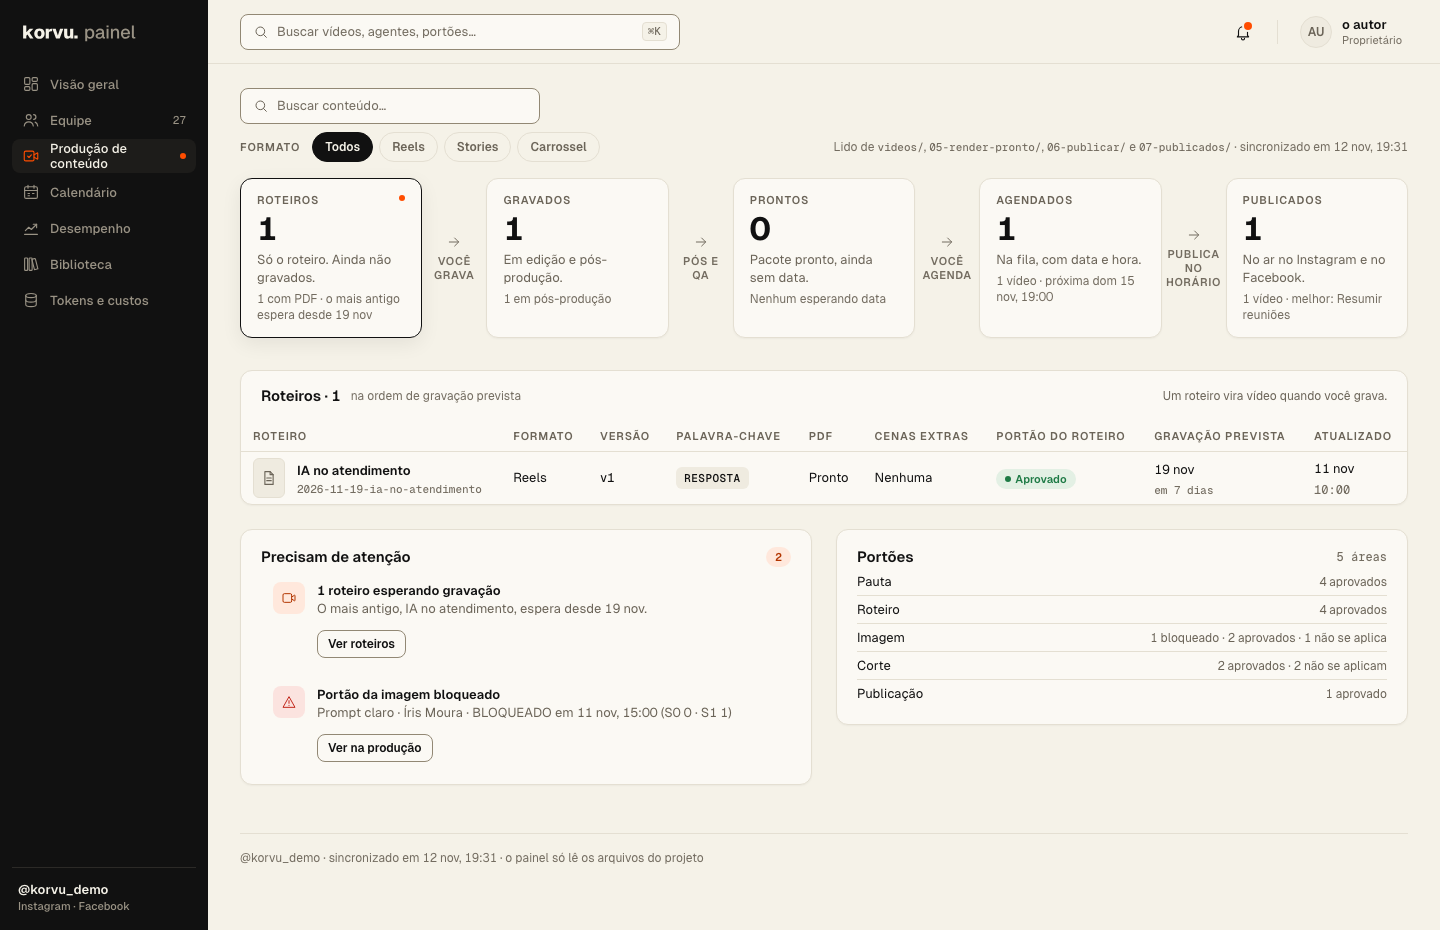
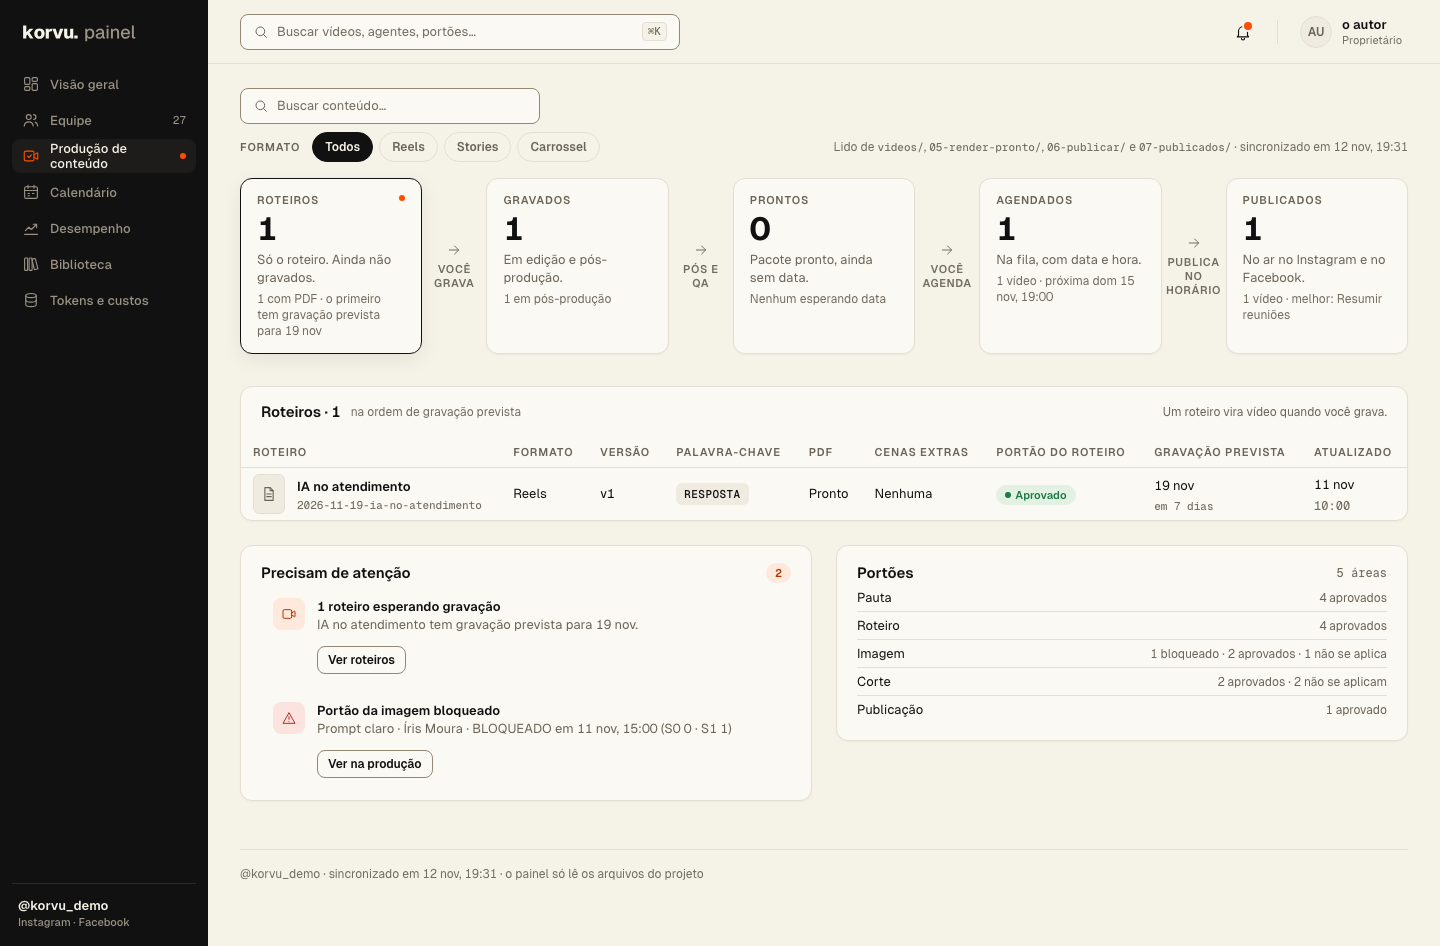
Produção: roteiro com gravação futura não "espera desde"; resíduos de horário
- A data do slug é a gravação PREVISTA: quando ela ainda não chegou, o cartão Roteiros e o aviso
  "Precisam de atenção" dizem "tem gravação prevista para 19 nov"; "espera desde" fica só para data passada.
- Captura producao-1440.png refeita com a configuração do exemplos/README.md.
- Horário de corte real trocado por um inventado no README do painel, no design-system e no handoff.

diff --git a/painel/web/src/app/producao/page.tsx b/painel/web/src/app/producao/page.tsx
@@ -12,7 +12,7 @@ import { BarraPagina, Secao } from "@/components/Pagina";
 import Vazio from "@/components/Vazio";
 import * as db from "@/lib/db";
 import { MAPA_PORTAO } from "@/lib/estados";
-import { data, dataDoSlug, dataHora, diaCurto, hora, PORTOES } from "@/lib/formato";
+import { data, dataDoSlug, dataHora, diaCurto, diaNoFuso, hora, PORTOES } from "@/lib/formato";
 import { agentes } from "@/lib/leituras";
 import { FASES, lerProducao, precisamDeAtencao, type Producao } from "@/lib/producao";
 import { Agendados, Gravados, Prontos, Publicados, Roteiros } from "./_componentes/Tabelas";
@@ -39,7 +39,12 @@ function metaDasFases(p: Producao) {
       n: roteiros.length, d: "Só o roteiro. Ainda não gravados.",
       m: [
         roteiros.length ? `${roteiros.filter((v) => p.roteiroDe(v.slug)?.pdf).length} com PDF` : "",
-        antigo ? `o mais antigo espera desde ${data(`${antigo}T12:00:00Z`)}` : "nenhum esperando",
+        // a data do slug é a gravação PREVISTA: só "espera desde" quando ela já passou
+        antigo
+          ? antigo < diaNoFuso(new Date())
+            ? `o mais antigo espera desde ${data(`${antigo}T12:00:00Z`)}`
+            : `o primeiro tem gravação prevista para ${data(`${antigo}T12:00:00Z`)}`
+          : "nenhum esperando",
       ].filter(Boolean).join(" · "),
     },
     gravados: { n: gravados.length, d: "Em edição e pós-produção.", m: gravados.length ? `${gravados.length} em pós-produção` : "Nenhum em edição agora" },

diff --git a/painel/web/src/lib/producao.ts b/painel/web/src/lib/producao.ts
@@ -217,7 +217,12 @@ export function precisamDeAtencao(p: Producao, agentes: db.Agente[], hoje = new 
     const hojeDia = diaNoFuso(hoje);
     const proximo = porData.find((v) => (dataDoSlug(v.slug) ?? "") >= hojeDia);
     const partes = [];
-    if (antigo) partes.push(`O mais antigo, ${antigo.nome}, espera desde ${diaCurto(dataDoSlug(antigo.slug)!).replace(/^\S+ /, "")}.`);
+    if (antigo) {
+      // a data do slug é a gravação PREVISTA: só "espera desde" quando ela já passou
+      const dia = dataDoSlug(antigo.slug)!;
+      const curto = diaCurto(dia).replace(/^\S+ /, "");
+      partes.push(dia < hojeDia ? `O mais antigo, ${antigo.nome}, espera desde ${curto}.` : `${antigo.nome} tem gravação prevista para ${curto}.`);
+    }
     if (proximo && proximo !== antigo) partes.push(`${proximo.nome} está previsto para ${relativo(diasEntre(hoje, dataDoSlug(proximo.slug)!))}.`);
     out.push({
       id: "roteiros", tom: "portao", icone: "camera",

diff --git a/painel/design/handoff.md b/painel/design/handoff.md
@@ -38,7 +38,7 @@ Refinamento, não redesign: nenhuma cor, fonte, raio ou espaço da marca mudou. 
 | **Modelo que rodou** | Equipe (linha, filtros, KPI "Agentes"), Visão geral (cartão de agente), Direção | o modelo vem dos registros (`message.model`), não de `agentes.modelo`: principal pelos tokens; com mais de um, `.k-modelo-mix` (chip + "92 % · +1", lista no `title` e em `k-sr-only`); sem registro, `.k-modelo-nada` "ainda não rodou". Filtro novo "Ainda não rodou" |
 | **Atraso de gravação só na Produção** | Calendário | já é assim: o calendário só marca gravação com data de hoje em diante |
 | **Biblioteca refeita** (acervo de estilos, canvas aprovado em 24/10) | `/biblioteca` | implemente pela maquete nova (`telas/biblioteca.*`): abas, looks (5, foto do autor), capas, legenda, fontes, animações, Armazenamento (só o que está no Mac: gravações + material) e Sistema, mais a **aba Sistema** (aprovada em 24/10: 3 cartões de modelo e as 11 ferramentas com nome · tipo · o que faz, de `painel/biblioteca.yaml` → `ferramentas` e `modelos`). Componentes novos no livro §15.2 ("Acervo de estilos"); saem `Material`/`Uso` (`.k-material*`, `.k-uso*`, `.k-busca-grande`) e as miniaturas de material (o PI66 deixa de existir). Imagens prontas em `telas/img/biblioteca/` |
-| **Números de tokens = os do banco** (PD21) | maquetes | última linha de cada resposta, dia da 1.ª, corte 23/10 16:02:49: 9,2 M, US$ 128,40 |
+| **Números de tokens = os do banco** (PD21) | maquetes | última linha de cada resposta, dia da 1.ª, corte 23/10 16:00: 9,2 M, US$ 128,40 |
 
 ## 0. O que mudou na versão 2 (23/10, tarde) — as 7 telas
 
@@ -334,5 +334,5 @@ portão como lista com o estado escrito no chip do mapa único; dica por foco e 
    `painel/design/telas/` e com a prévia do componente em `painel/design/previas/` (mesma largura: 1440 e 375).
    `scrollWidth` = largura da janela em todas.
 2. Os três estados vistos num servidor seu (o `portao-interface.md` diz como).
-3. `cmp` das cópias em `painel/web` (e o `verificacao/fidelidade.py` (só no estúdio de origem: compara com `painel/referencias/`, que não vem no repositório público)).
+3. `cmp` das cópias em `painel/web`. O `verificacao/fidelidade.py` fica só no estúdio de origem, porque compara com `painel/referencias/`, que não vem no repositório público.
 4. `npx tsc --noEmit`, `npx eslint src`, build em `.next-verificacao`.

diff --git a/painel/design/design-system.md b/painel/design/design-system.md
@@ -892,7 +892,7 @@ G13, G14, G22). Nenhum texto novo abaixo de 11 px (o artboard tinha 10 e 10,5 px
   de tabela da API em US$ (cache gravado 1,25× a entrada por 5 min e 2× por 1 h); tarefa = uma sessão (execução) com
   consumo; vídeo = subagente cujo 1.º pedido cita `videos/<slug>`; o Atlas soma a sessão principal e os ajudantes
   (`general-purpose`, `workflow-subagent`, `claude`, `Explore`, `Plan`). Cada resposta vale pela **última linha** do seu
-  `message.id` e cai no dia da 1.ª (PD21). **É um retrato com hora de corte** (23/10, 16:02:49, o mesmo do banco):
+  `message.id` e cai no dia da 1.ª (PD21). **É um retrato com hora de corte** (23/10, 16:00, o mesmo do banco):
   9,2 M tokens, **US$ 128,40**. No painel o número vem do banco — **dado novo para o `engenheiro-backend`
   sincronizar** (`handoff.md` §8). ElevenLabs (transcrição e música) fica de fora: sem medição.
 - **Câmbio**: saiu em 24/10 (custo em US$).

diff --git a/painel/README.md b/painel/README.md
@@ -143,7 +143,7 @@ então nada ficou congelado com o usage provisório.
 **Reconciliar** (`--ate <ISO>`: só as linhas dos registros até esse instante, inclusive; `--ate` e `--regra-do-script`
 gravam só num banco de teste — no banco do painel, por qualquer endereço deste Mac, só com `--seco`):
 `uv run python painel/trabalho/engenheiro-backend/reconciliar_tokens.py` monta bancos `painel_teste_rec_<pid>_*` e põe lado
-a lado, no corte de 23/10 15:02:49.958Z (janela 24/09–23/10):
+a lado, no corte de 23/10 15:00:00Z (janela 24/09–23/10):
 - **(a)** a regra do script (1.ª linha) × o `tokens-custos.py` com o mesmo corte: **os mesmos totais**, igual
   em total, modelo, departamento e nos 25 agentes — a leitura é a mesma;
 - **(b)** a regra do painel (última linha), o que o banco guarda: **os mesmos totais**;
